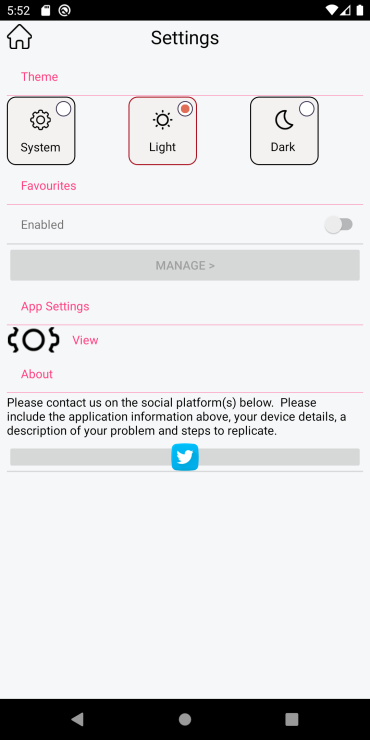
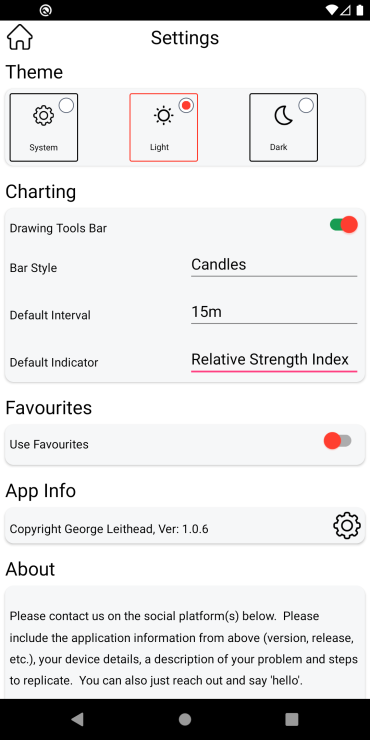
Updated screenshots

diff --git a/README.md b/README.md
@@ -15,14 +15,18 @@ LiLo.Lite is a light-weight cryptocurrency (crypto) tracking application.  It pr
 ![Home Page - Light theme - Search](Screenshots/HomeLight_Search.png)
 ![Home Page - Light theme - Landscape](Screenshots/HomeLightL.png)
 ![Home Page - Dark theme - Landscape](Screenshots/HomeDarkL.png)
+![Home page - Light theme - Favourites](Screenshots/HomeLight_Favourites.png)
+![Home page - Dark theme - Favourites](Screenshots/HomeDark_Favourites.png)
 
 ### Chart page
 ![Chart page - Light theme](Screenshots/ChartLight.png)
 ![Chart page - Dark theme](Screenshots/ChartDark.png)
+![Chart page - Light theme with chart settings](Screenshots/ChartLight_Settings.png)
 
 ## Settings page
 ![Settings page - Light theme](Screenshots/SettingsLight.png)
 ![Settings page - Dark theme](Screenshots/SettingsDark.png)
+![Settings page - Light theme - Chart options](Screenshots/SettingsLight_Chart.png)
 
 ## Manage favourites page
 ![Favourites page - Light theme](Screenshots/FavouritesLight.png)
@@ -45,6 +49,7 @@ The LiLo.Lite mobile application is currently available for these platforms:
 - FREE to install and FREE from adverts.
 - Access real-time market data from [Binance](https://www.binance.com/).
 - Access real-time charting from [TradingView](https://uk.tradingview.com/).
+- Custom charting options.
 - Only internet permissions needed.
 - No personal information collected.
 - Price change highlighting.
@@ -124,7 +129,6 @@ The LiLo.Lite mobile application is currently available for these platforms:
 - Bancor Network Token (BNT)
 - Horizen (ZEN)
 - Qtum (QTUM)
-- Pundi X (NPSX)
 - Holo (HOT)
 - Enjin Coin (ENJ)
 - Curve DAO Token (CRV)
